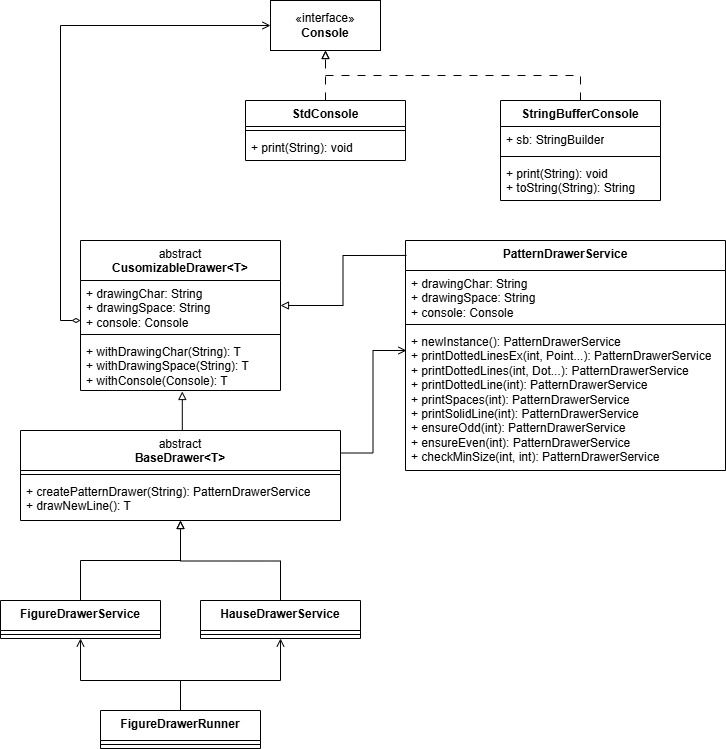
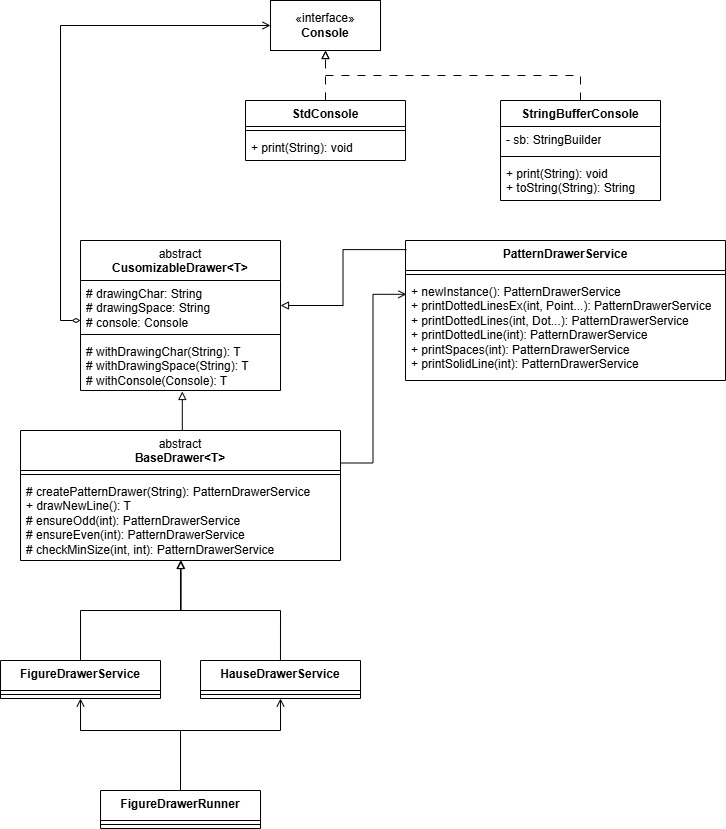
Refactoring

diff --git a/src/main/java/org/vova/drawing/domain/HouseDrawerService.java b/src/main/java/org/vova/drawing/domain/HouseDrawerService.java
@@ -20,8 +20,8 @@ public class HouseDrawerService extends BaseDrawer<HouseDrawerService> {
         checkMinSize(size, 3);
         ensureOdd(size);
 
-        // Business logic code
         createPatternDrawer()
+                // Business logic code
                 .printDottedLinesEx(center, point(center, -1), point(center, 1))
                 .printSolidLine(size)
                 .printDottedLinesEx(size - 2, point(0, 0), point(1, 1), point(size - 2, -1), point(size - 1, 0))
@@ -34,8 +34,8 @@ public class HouseDrawerService extends BaseDrawer<HouseDrawerService> {
         checkMinSize(size, 3);
         ensureOdd(size);
 
-        // Business logic code
         createPatternDrawer()
+                // Business logic code
                 .printDottedLine(midHeight + 1)
                 .printDottedLines(midHeight, dot(midHeight, -1), dot(1, 2))
                 .printSolidLine(size)

diff --git a/src/main/java/org/vova/drawing/core/CustomizableDrawer.java b/src/main/java/org/vova/drawing/core/CustomizableDrawer.java
@@ -11,19 +11,19 @@ public abstract class CustomizableDrawer<T> {
     protected Console console = new StdConsole();
 
     @SuppressWarnings("unchecked")
-    public T withDrawingChar(String drawingChar) {
+    protected T withDrawingChar(String drawingChar) {
         this.drawingChar = drawingChar;
         return (T) this;
     }
 
     @SuppressWarnings("unchecked")
-    public T withDrawingSpace(String drawingSpace) {
+    protected T withDrawingSpace(String drawingSpace) {
         this.drawingSpace = drawingSpace;
         return (T) this;
     }
 
     @SuppressWarnings("unchecked")
-    public T withConsole(Console console) {
+    protected T withConsole(Console console) {
         this.console = console;
         return (T) this;
     }

diff --git a/README.md b/README.md
@@ -7,7 +7,7 @@
 
 ## Overview
 
-This is my pet project „Figure Drawer“ that allows the user to draw any figure on a console (for example any kind of
+This is my (as a student) pet project „Figure Drawer“ that allows the user to draw any figure on a console (for example any kind of
 triangles, or a rectangle or even a house) with just knowing a size of a figure - all the calculation and actual drawing
 is done by the program itself.
 
